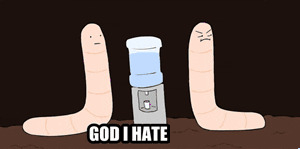
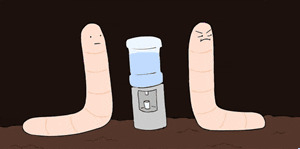
Too much work. Delete all text 2-12

Changed region(s): [[0.27, 0.8054, 0.57, 0.9664]]

diff --git a/main.go b/main.go
@@ -1,6 +1,6 @@
 package main
 
-import img "github.com/francisbohan/GoEatShit/imageprep"
+import img "github.com/francisbohan/go-eat-shit/imageprep"
 
 func main() {
 	img.ImagePrep("frank")
